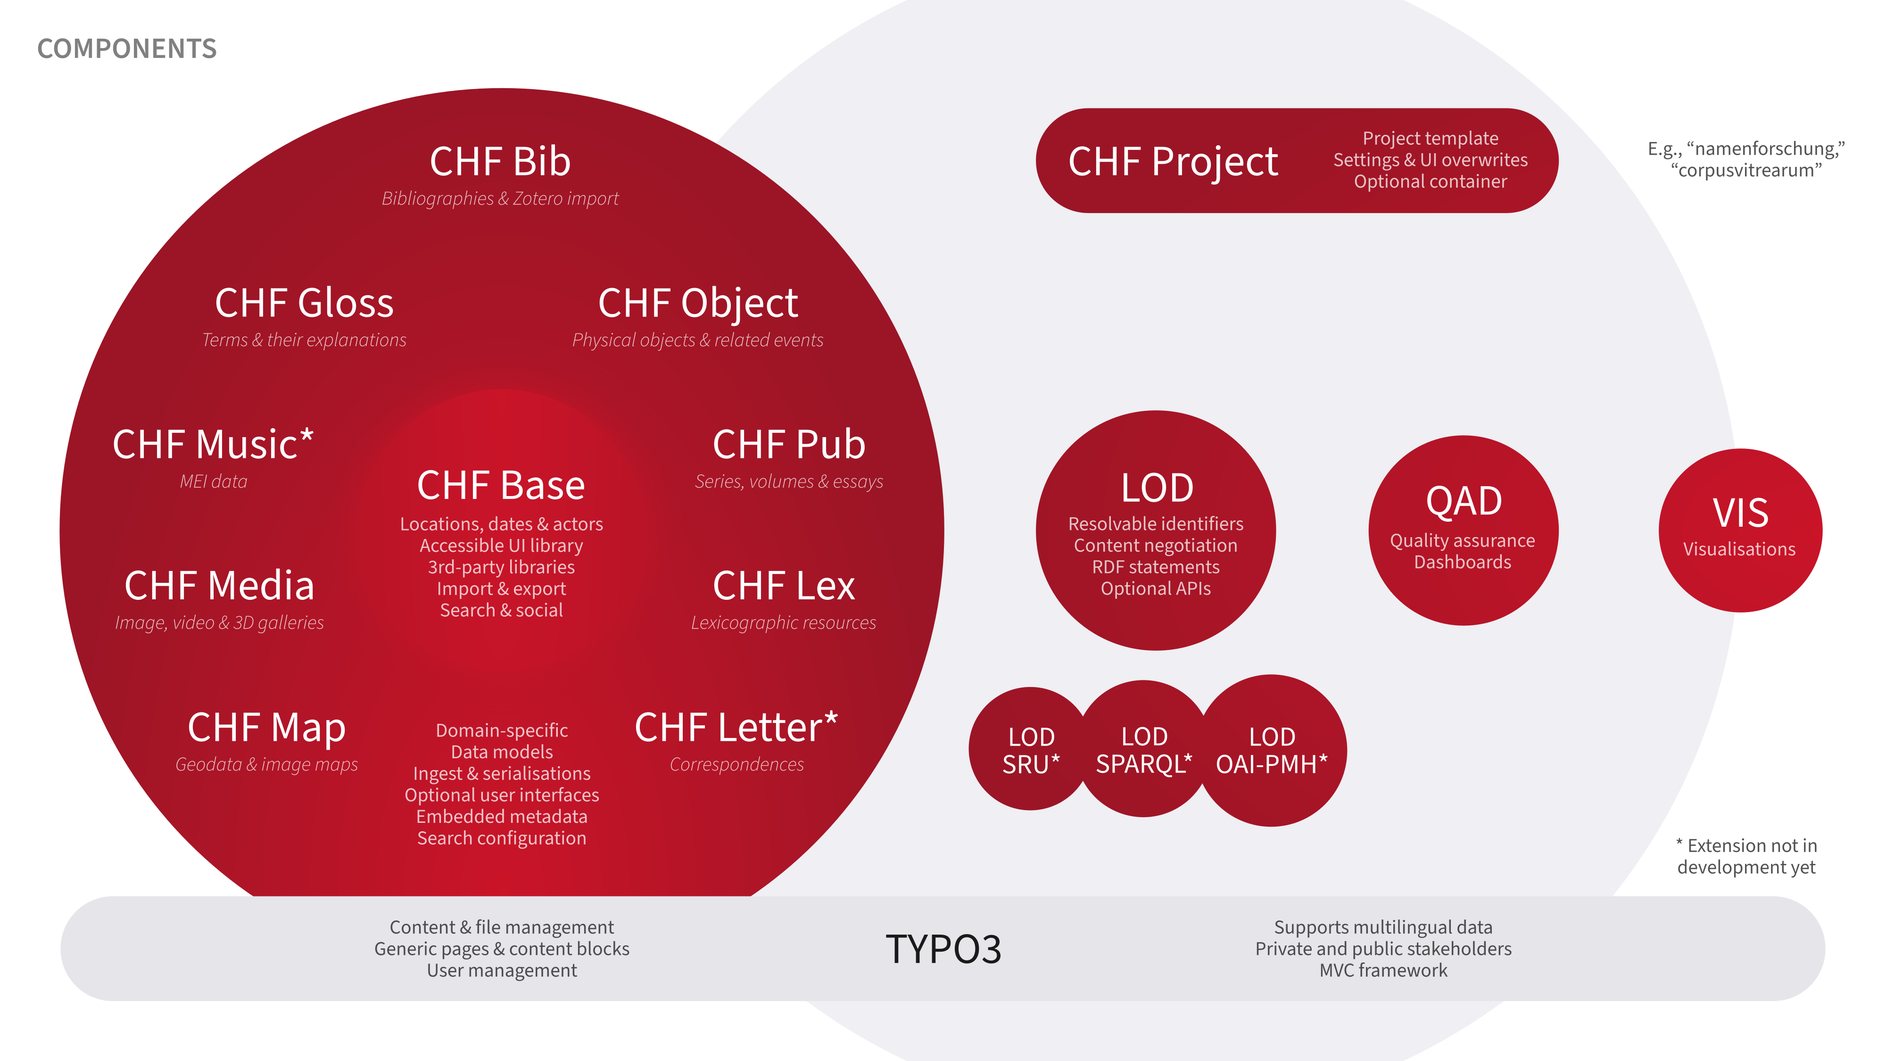
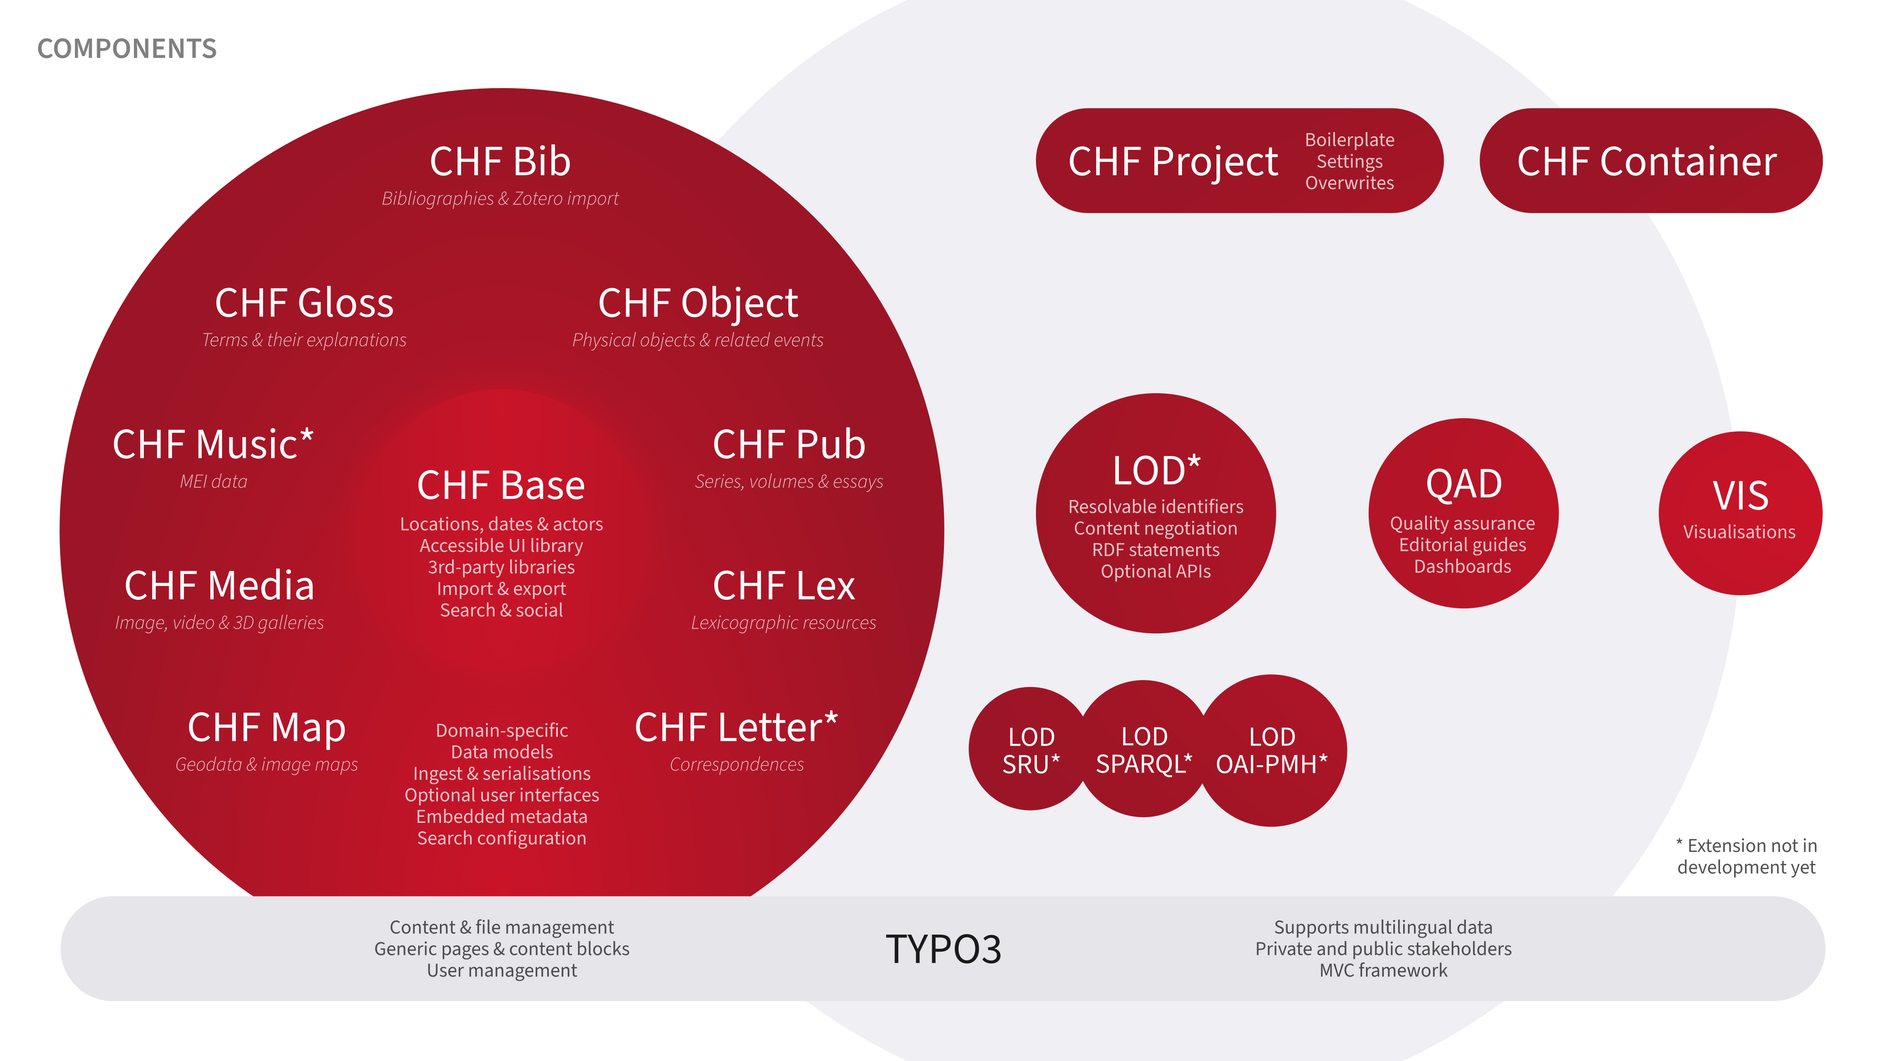
Update documentation

diff --git a/Documentation/Components/Index.rst b/Documentation/Components/Index.rst
@@ -11,8 +11,6 @@ of a **separation of concerns**. There are three types of components you
 should know: specific data models, independent helpers, and the
 project-specific sitepackage.
 
-![Overview of the Cultural Heritage Framework's modular components](Overview.png)
-
 ..  figure:: /Components/Components.png
     :alt: Overview of the Cultural Heritage Framework
     :target: /Components/Components.png
@@ -20,8 +18,8 @@ project-specific sitepackage.
 
     Overview of the Cultural Heritage Framework's modular components.
 
-The main set of available extensions are **data models organised around
-``chf_base``**, which provides core data structures. The base component also
+The main set of available extensions are **data models organised around CHF
+Base**, which provides core data structures. The base component also
 includes its own user interface library for the web that is designed to be
 accessible, atomic, responsive, and GDPR-compliant, as well as a few tools
 needed by a number of dependent extensions. Each of these components targets
@@ -30,33 +28,33 @@ standard templates, common serialisations like TEI XML and embedded metadata,
 data import options, and search configuration. The following extensions of
 this category are available:
 
-- [chf_base](https://github.com/digicademy-chf/chf_base) (resources, locations,
-  periods, and actors; partly inspired by TEI)
+- `CHF Base <https://github.com/digicademy-chf/chf_base>`__ (resources,
+  locations, periods, and actors; partly inspired by TEI)
 
-- [chf_bib](https://github.com/digicademy-chf/chf_bib) (bibliographies and
+- `CHF Bib <https://github.com/digicademy-chf/chf_bib>`__ (bibliographies and
   Zotero import; based on Zotero TEI)
 
-- [chf_lex](https://github.com/digicademy-chf/chf_lex) (lexicographic
+- `CHF Lex <https://github.com/digicademy-chf/chf_lex>`__ (lexicographic
   resources with dictionary and/or encyclopedic entries; based on DMLex)
 
-- [chf_map](https://github.com/digicademy-chf/chf_map) (geodata and image
+- `CHF Map <https://github.com/digicademy-chf/chf_map>`__ (geodata and image
   maps; based on GeoJSON)
 
-- [chf_gloss](https://github.com/digicademy-chf/chf_gloss) (terms and their
+- `CHF Gloss <https://github.com/digicademy-chf/chf_gloss>`__ (terms and their
   explanations)
 
-- [chf_pub](https://github.com/digicademy-chf/chf_pub) (volumes and essays to
-  model books, book series, blogs, and journals)
+- `CHF Pub <https://github.com/digicademy-chf/chf_pub>`__ (volumes and essays
+  to model books, book series, blogs, and journals)
 
-- [chf_object](https://github.com/digicademy-chf/chf_object) (physical objects
-  and related events)
+- `CHF Object <https://github.com/digicademy-chf/chf_object>`__ (physical
+  objects and related events)
 
-- [chf_media](https://github.com/digicademy-chf/chf_media) (image, video, and
-  3D files, galleries, and collections)
+- `CHF Media <https://github.com/digicademy-chf/chf_media>`__ (image, video,
+  and 3D files, galleries, and collections)
 
-- *Not in development yet:* ``chf_music`` (MEI data)
+- *Not in development yet:* CHF Music (MEI data)
 
-- *Not in development yet:* ``chf_letter`` (correspondences)
+- *Not in development yet:* CHF Letter (correspondences)
 
 In addition to these data models, **three optional helpers are available**.
 They provide single-purpose additions to TYPO3's functionality that are useful
@@ -64,19 +62,19 @@ in a Digital Humanities-focused web app. Using these helpers may require a bit
 of configuration in accordance with their individual documentation. They may
 also be used without any of the CHF data models listed above:
 
-- [lod](https://github.com/digicademy/lod) (resolvable identifiers, content
-  negotiation, RDF statements)
+- *Not updated yet:* LOD (resolvable identifiers, content negotiation, RDF
+  statements)
 
-  - *Not in development yet:* ``lod_sru`` (generic Search/Retrieve-via-URL API)
+  - *Not in development yet:* LOD SRU (generic Search/Retrieve-via-URL API)
 
-  - *Not in development yet:* ``lod_sparql`` (generic SPARQL API)
+  - *Not in development yet:* LOD SPARQL (generic SPARQL API)
 
-  - *Not in development yet:* ``lod_oaipmh`` (generic OAI-PMH API)
+  - *Not in development yet:* LOD OAI-PMH (generic OAI-PMH API)
 
-- [qad](https://github.com/digicademy/qad) (quality assurance for data,
+- `QAD <https://github.com/digicademy/qad>`__ (quality assurance for data,
   dashboards)
 
-- [vis](https://github.com/digicademy/vis) (a set of visualisations)
+- `VIS <https://github.com/digicademy/vis>`__ (a set of visualisations)
 
 Last but not least, **each project needs its own sitepackage**. In theory,
 every aspect of the other extensions may be overwritten in this extension.
@@ -84,8 +82,8 @@ In practice, it is typically used to include and configure the extensions
 you need and to adapt a few minor template elements. The CHF includes a
 boilerplate that you can simply copy and adapt to your needs.
 
-- [chf_project](https://github.com/digicademy-chf/chf_project) (sitepackage
+- `CHF Project <https://github.com/digicademy-chf/chf_project>`__ (sitepackage
   boilerplate)
 
-- [chf_project_docker](https://github.com/digicademy-chf/chf_project_docker)
-  (sample Docker configuration)
+- `CHF Container <https://github.com/digicademy-chf/chf_container>`__ (sample
+  Podman or Docker container configuration)

diff --git a/Documentation/DesignPrinciples/Index.rst b/Documentation/DesignPrinciples/Index.rst
@@ -12,38 +12,37 @@ in question, to make informed decisions on how to implement changes, or to
 aid in designing a new addition to the CHF.
 
 1. Ideally, CHF data models are either based on or inspired by an existing
-  model that is **widely used** in a specific domain or, if possible, even
-  standardised.
+   model that is **widely used** in a specific domain or, if possible, even
+   standardised.
 
 2. Generic **classes that are reused** across dependent data models are stored
-  in ``chf_base``. If a class would need lots of overrides if it were included
-  here, it may be better located in the dependent data models that actually
-  need it, even if this means that a bit of code needs to be duplicated.
+   in CHF Base. If a class would need lots of overrides if it were included
+   here, it may be better located in the dependent data models that actually
+   need it, even if this means that a bit of code needs to be duplicated.
 
 3. Models designed to store data sets should be held together by a **central
-  ``Resource`` class** (e.g., ``BibliographicResource`` for a bibliography).
-  This allows for multiple data sets in the same TYPO3 instance. If data sets
-  should be kept fully separate, however, they should also be stored in
-  different pages (or folders).
+   class** ``Resource`` (e.g., ``BibliographicResource`` for a bibliography).
+   This allows for multiple data sets in the same TYPO3 instance. If data sets
+   should be kept fully separate, however, they should also be stored in
+   different pages (or folders).
 
-4. Another common pattern across the CHF is to allow the use of a **``SameAs``
-  class and a ``Tag``**. The former helps identify entities in Linked Open
-  Data scenarios through identifiers from authority files, and the latter
-  offers generic and, in some cases, extensible keyword and label systems.
+4. Another common pattern across the CHF is to allow the use of ``SameAs`` and
+   ``Tag`` classes. The former helps **identify entities** in Linked Open Data
+   scenarios through identifiers from authority files, and the latter offers
+   generic and, in some cases, extensible keyword and label systems.
 
 5. The data models tend to **avoid extensive cross-dependencies**. Using
-  classes from ``chf_base`` is common, though, and some models may also
-  include ``SourceRelation`` from ``chf_bib`` or ``Feature`` and
-  ``MapResource`` from ``chf_map`` where appropriate. ``GlossaryResource`` may
-  be used across all other data models if needed.
+   classes from CHF Base is common, though, and some models may also
+   include ``SourceRelation`` from CHF Bib or ``Feature`` and
+   ``MapResource`` from CHF Map where appropriate. ``GlossaryResource`` may
+   be used across all other data models if needed.
 
-6. A data model extension **should contain** the TCA,
-  model/repository/controller files, import and export formats appropriate for
-  the data model, generic Fluid templates for the frontend, a search
-  configuration, and embedded metadata to make the views it provides as
-  machine readable as possible.
+6. A data model extension **should contain** the TCA, model/repository/controller
+   files, import and export formats appropriate for the data model, generic
+   Fluid templates for the frontend, a search configuration, and embedded
+   metadata to make the views it provides as machine-readable as possible.
 
 7. The goal is to keep **as much logic as possible in PHP code** since it is
-  relatively easy to learn and maintain, even for newcomers. TypoScript,
-  which is a very powerful tool in TYPO3, is reserved for configuration
-  instructions.
+   relatively easy to learn and maintain, even for newcomers. TypoScript,
+   which is a very powerful tool in TYPO3, is reserved for configuration
+   instructions.

diff --git a/Documentation/Development/Index.rst b/Documentation/Development/Index.rst
@@ -6,27 +6,27 @@
 Development
 ===========
 
-When you find yourself in the position of having to update an existing
-extension for a new major release of TYPO3, the following steps should help
-you. Before you start, make sure you know whether the upgraded extension
-needs to support more than one major release of the software.
+The following steps should help when you find yourself in the position of
+having to update an existing extension for a new major release of TYPO3. Before
+you start, make sure you know whether the upgraded extension needs to support
+more than one major release of the software.
 
 1. Use `TYPO3 Rector <https://www.typo3-rector.com/>`__ on the extension's
-  code to get an idea of what needs to be changed. Rector can automatically
-  implement a lot of necessary changes for you and will tell you about other
-  things you need to change by hand.
+   code to get an idea of what needs to be changed. Rector can automatically
+   implement a lot of necessary changes for you and will tell you about other
+   things you need to change by hand.
 
 2. When this is done, switch to a development environment updated according
-  to the TYPO3 release's changed requirements. Use the updated system's
-  integrated extension testing tools to see which further changes may be
-  needed.
+   to the TYPO3 release's changed requirements. Use the updated system's
+   integrated extension testing tools to see which further changes are
+   required.
 
-3. If you made changes that affect the database, make sure there is an
-  automatic upgrade script in place.
+3. If you make changes that affect the database, make sure there is an
+   automatic upgrade script in place.
 
-4. Check the that the extension is working as expected. This can be done
-  manually or with the help of an automated testing pipeline.
+4. Check that the extension is working as expected. This can be done manually
+   or with the help of an automated testing pipeline.
 
 5. Edit the metadata to increase the version numbers of both the extension
-  and TYPO3. Add the changes to the changelog so other developers can see what
-  changes were made when they use your extension.
+   and TYPO3. Add the changes to the changelog so other developers can see what
+   changes were made when they use the extension.

diff --git a/Documentation/Index.rst b/Documentation/Index.rst
@@ -38,12 +38,12 @@ designed for the needs of scholarly editing, lexicography, archives, GLAM
 institutions, and, more generally, projects interested in making cultural
 heritage, books, media, or annotated bibliographies available in their own
 web-based research platform. A key strength of the CHF is the ability to
-produce portals and multimodal editions that include various data types with
-historical points of reference in a single system, including editing
+produce portals and **multimodal editions** that include various data types
+with historical points of reference in a single system, including editing
 interfaces, frontends, and serialisations. Specific data models are organised
 as additional components around the TYPO3 extension ``chf_base``, which
-provides central data types like ``Agent``s, ``Location``s, and ``Period``s,
-but also multiple types of ``Tag``s and ``Relation``s to structure and connect
+provides central data types like ``Agent``, ``Location``, and ``Period``,
+but also multiple types of ``Tag`` and ``Relation`` to structure and connect
 data as well as services like import and export routines. The various
 components are developed and maintained by the Digital Academy, a Digital
 Humanities department at the Academy of Sciences and Literature Mainz.
@@ -63,7 +63,7 @@ Humanities department at the Academy of Sciences and Literature Mainz.
     Updates/Index
     Development/Index
     DataModelsInTypo3/Index
-    DesignPprinciples/Index
+    DesignPrinciples/Index
     Contribution/Index
 
 ..  Extension Menu

diff --git a/Documentation/Setup/Index.rst b/Documentation/Setup/Index.rst
@@ -11,15 +11,13 @@ The CHF provides standard TYPO3 extensions, so the resulting web project
 guide <https://docs.typo3.org/m/typo3/tutorial-getting-started/main/en-us/Index.html>`__
 provides system requirements and installation instructions.
 
-To **kickstart development**, you may simply use the Docker container provided
-by the CHF (``chf_project_docker``) and/or the sitepackage boilerplate
-(``chf_project``). Please refer to the documentation of the Docker container
-to see how it works, and make sure you change the credentials if you use the
-container on a web server. Depending on your web server's set-up, the
-container may not be useful and you may simply need the adapted boilerplate
-extension and activate it in a PHP Coposer environment.
+To **kickstart development**, you may simply use the Podman or Docker
+containers provided CHF Container and/or the sitepackage boilerplate CHF
+Project. Please refer to the documentation of the container package to see how
+it works. Depending on your web server's set-up, the container may not be
+useful and you may simply need an adapted boilerplate extension and activate it
+in a PHP Composer environment.
 
 For inspiration on how to use the CHF, feel free to take a **look at two
-actual sitepackages** and their Docker containers based on the boilerplate
-code: ``namenforschung`` with ``namenforschung_docker`` as well as
-``corpusvitrearum`` with ``corpusvitrearum_docker``.
+actual sitepackages** based on the boilerplate code: ``namenforschung`` and
+``corpusvitrearum``.

diff --git a/Documentation/Updates/Index.rst b/Documentation/Updates/Index.rst
@@ -10,11 +10,11 @@ Any user-facing web project with dynamic components needs regular maintenance
 and a TYPO3 system is no different. You should **regularly update your
 instance** as instructed in TYPO3's `getting started guide
 <https://docs.typo3.org/m/typo3/tutorial-getting-started/main/en-us/Index.html>`__.
-Our goal for the CHF components is to always update all components for the
-latest release, but we may not always be ready on day 1. Feel free to step up
-and provide patches to aid this regular maintenance.
+The goal for CHF components is to always update all components for the latest
+release, but these updates may not always be ready on day 1. Feel free to step
+up and provide patches to aid this regular maintenance.
 
-When we upgrade our components or make changes, we try to migrate everything
-automatically. But especially if you heavily customise the CHF in your
-sitepackage, **you may face a bit of maintenance work** to keep up with new
-releases as TYPO3 continuously modernises its APIs with each major version.
+When components are upgraded and changes are made, the goal is to migrate any
+content and data automatically. But especially if you heavily customise the CHF
+in your sitepackage, **you may face a bit of maintenance work** to keep up with
+new releases as TYPO3 continuously modernises its APIs with each major version.

diff --git a/README.rst b/README.rst
@@ -20,12 +20,12 @@ designed for the needs of scholarly editing, lexicography, archives, GLAM
 institutions, and, more generally, projects interested in making cultural
 heritage, books, media, or annotated bibliographies available in their own
 web-based research platform. A key strength of the CHF is the ability to
-produce portals and multimodal editions that include various data types with
-historical points of reference in a single system, including editing
+produce portals and **multimodal editions** that include various data types
+with historical points of reference in a single system, including editing
 interfaces, frontends, and serialisations. Specific data models are organised
 as additional components around the TYPO3 extension ``chf_base``, which
-provides central data types like ``Agent``s, ``Location``s, and ``Period``s,
-but also multiple types of ``Tag``s and ``Relation``s to structure and connect
+provides central data types like ``Agent``, ``Location``, and ``Period``,
+but also multiple types of ``Tag`` and ``Relation`` to structure and connect
 data as well as services like import and export routines. The various
 components are developed and maintained by the Digital Academy, a Digital
 Humanities department at the Academy of Sciences and Literature Mainz.

diff --git a/Documentation/Base/DataModel/Index.rst b/Documentation/Base/DataModel/Index.rst
@@ -10,13 +10,14 @@ This extension does not provide a fully rounded data model but a set of service
 classes. A ``Location`` may be organised hierarchically to model, for example,
 world regions, countries, regions, cities, and buildings. A ``Period`` may
 similarly be arranged in a hierarchy to model historical periods, phases, or
-dates. ``Actors``, on the other hand, may be grouped together via ``Tag``s as
-labels, but otherwise stand on their own. They may refer to organisations,
-individuals, or other entities in the sense of actor-network theory.
+dates. ``Actor`` objects, on the other hand, may be grouped together via
+``Tag`` labels, but otherwise stand on their own. They may refer to
+organisations, individuals, or other entities in the sense of actor-network
+theory.
 
-In addition, the model provides flexible ``Tag``s to group other classes,
-``Relation``s to connect classes with qualifications like an ``Actor``s role,
-and ``SameAs`` classes to connect entities to authority data.
+In addition, the model provides flexible ``Tag`` objects to group other
+classes, ``Relation`` objects connect classes with qualifications like the role
+of an ``Actor``, and ``SameAs`` classes to connect entities to authority data.
 
 ..  _graphical-overview:
 

diff --git a/Documentation/Usage/Index.rst b/Documentation/Usage/Index.rst
@@ -11,7 +11,7 @@ where necessary. There are a few central concept in the CHF and the TYPO3
 world that may come in handy:
 
 - **Basic instructions** for your own project and sitepackage are provided in
-  the documentation for ``chf_project``.
+  the documentation for CHF Project.
 
 - TYPO3 differentiates between **frontend and backend**, and editing is
   usually done in the latter.
@@ -20,5 +20,5 @@ world that may come in handy:
   is added to.
 
 - New major versions of TYPO3 are released **every 1 1/2 years**. Security
-  updates are released every couple of weeks, and it is your responsibility
-  to keep your project up to date.
+  updates are released every couple of weeks at the latest, and it is your
+  responsibility to keep your project up to date.

diff --git a/Documentation/Base/Introduction/Index.rst b/Documentation/Base/Introduction/Index.rst
@@ -10,7 +10,7 @@ The extension provides a number of database tables and corresponding classes
 for use in the various dependent data models in the CHF. This includes
 humanities-specific data such as ``Location``, ``Period``, and ``Actor``, but
 also more generic classes like ``SameAs``. In the same vein of being a service
-extension for other data models, ``chf_base`` also includes key third-party
+extension for other data models, CHF Base also includes key third-party
 libraries like ``Leaflet``, infrastructure to import and serialise data, to
 compile search configuration, and to build user interfaces. The latter is
 realised in the form of generic Fluid templates that sitepackages may use

diff --git a/Documentation/Base/Maintenance/Index.rst b/Documentation/Base/Maintenance/Index.rst
@@ -9,7 +9,8 @@ Maintenance
 Maintenance of the extension may include adapting it to new TYPO3 versions or
 updating dependencies and includes. The following include is used:
 
-- Leaflet 1.9.4: content of ``images`` in ``Resources/Images/leaflet``, 
-  ``leaflet.js`` in ``Resources/Public/JavaScript``, ``leaflet.css`` in
-  ``Resources/Public/Css`` with ``url()`` values changed to accommodate the
-  new image location.
+- Leaflet 1.9.4:
+  - content of :file:`images` in :file:`Resources/Images/leaflet`
+  - :file:`leaflet.js` in :file:`Resources/Public/JavaScript`
+  - :file:`leaflet.css` in :file:`Resources/Public/Css` with ``url()`` values
+    changed to accommodate the new image location.

diff --git a/Documentation/Contribution/Index.rst b/Documentation/Contribution/Index.rst
@@ -9,7 +9,7 @@ Contribution
 The Cultural Heritage Framework is an open-source project. We **encourage
 contributions** and have listed a couple of ways in which you could
 contribute below. We only ask that the CHF community follows the
-`**Contributor Covenant code of conduct** <https://www.contributor-covenant.org/version/2/1/code_of_conduct/>`__.
+`Contributor Covenant code of conduct <https://www.contributor-covenant.org/version/2/1/code_of_conduct/>`__.
 Please contact us via the public email address in our GitHub profile if
 you encounter a violation of the code of conduct so we can enforce this
 shared set of rules. You are also free to contact us if you would like
